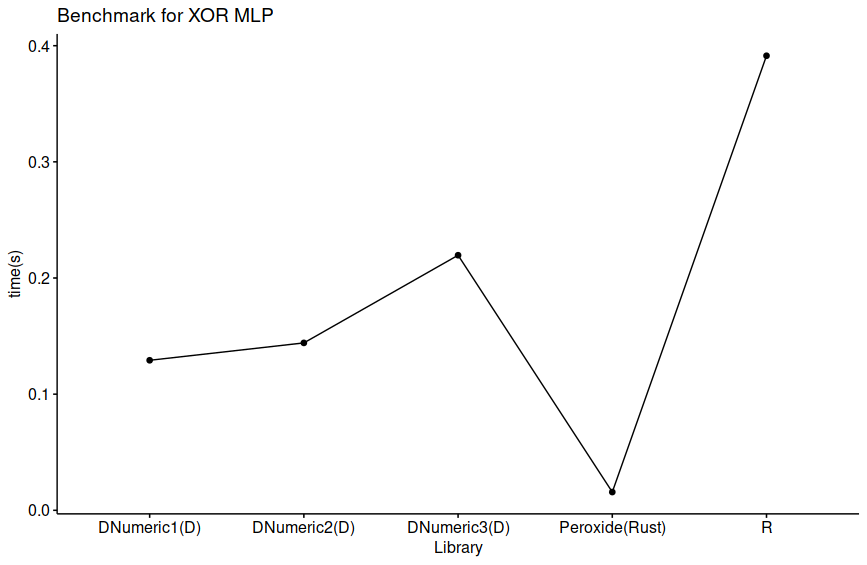
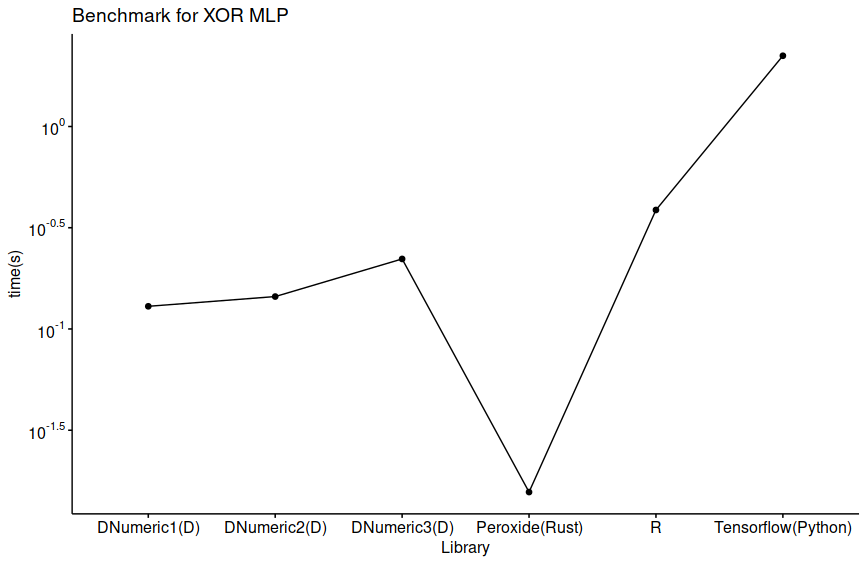
Bench with tf

diff --git a/Lecture/3rd/Code/hw_tensorflow/tf.py b/Lecture/3rd/Code/hw_tensorflow/tf.py
@@ -1,0 +1,86 @@
+#!/usr/bin/env python3
+
+# -*- coding: utf-8 -*-
+
+"""
+
+Created on Tue May 23 14:56:53 2017
+
+
+@author: crazyj
+
+"""
+
+
+
+import numpy as np
+
+import tensorflow as tf
+
+
+# trainint set
+
+X_train = np.array( [[0,0], [0,1], [1,0], [1,1]])
+
+T_train = np.array( [[0], [1], [1], [0]] )
+
+
+
+# placeholder
+
+X = tf.placeholder(tf.float32, [None, 2])
+
+T = tf.placeholder(tf.float32, [None, 1])
+
+
+# variable
+
+W1 = tf.Variable(tf.truncated_normal([2,4]))
+
+b1 = tf.Variable(tf.zeros([4]))
+
+W2 = tf.Variable(tf.truncated_normal([4,1]))
+
+b2 = tf.Variable(tf.zeros([1]), dtype=tf.float32)
+
+
+# model
+
+A1 = tf.matmul(X, W1)+b1
+
+Z1 = tf.sigmoid(A1)
+
+A2 = tf.matmul(Z1, W2)+b2
+
+Z2 = tf.sigmoid(A2)
+
+
+learn_rate = 0.25
+
+Cost = tf.reduce_mean(tf.reduce_sum(tf.square(Z2-T), 1))
+
+train = tf.train.GradientDescentOptimizer(learn_rate).minimize(Cost)
+
+
+predict = Z2
+
+
+sess = tf.Session()
+
+sess.run(tf.global_variables_initializer())
+
+for i in range(5000):
+
+    _train, _Cost = sess.run([train, Cost], feed_dict={X:X_train, T:T_train})
+
+    #print( "cost=", _Cost)
+
+    
+
+_predict = sess.run([predict], feed_dict={X:X_train})
+
+print("predict=", _predict)
+
+print("result=", np.array(np.array(_predict)>0.5, np.int))
+
+

diff --git a/Lecture/3rd/Code/bench.md b/Lecture/3rd/Code/bench.md
@@ -1,7 +1,8 @@
 | Command | Mean [ms] | Min…Max [ms] |
 |:---|---:|---:|
-| `./HW_reboot2/hw_reboot2` | 129.2 ± 2.6 | 123.9…132.7 |
-| `./HW_reboot/hw_reboot` | 144.1 ± 2.4 | 139.6…147.2 |
-| `./HW2/hw2` | 219.6 ± 3.4 | 215.7…224.6 |
-| `Rscript mlp.R` | 391.3 ± 4.2 | 384.9…397.6 |
-| `./hw_peroxide/target/release/hw_peroxide` | 15.7 ± 0.9 | 13.8…19.0 |
+| `./HW_reboot2/hw_reboot2` | 129.4 ± 2.7 | 124.9…135.4 |
+| `./HW_reboot/hw_reboot` | 144.6 ± 3.0 | 140.1…150.0 |
+| `./HW2/hw2` | 221.7 ± 4.0 | 215.3…226.9 |
+| `Rscript mlp.R` | 386.9 ± 2.5 | 382.8…390.2 |
+| `./hw_peroxide/target/release/hw_peroxide` | 15.7 ± 0.8 | 13.7…17.4 |
+| `python3 hw_tensorflow/tf.py` | 2235.0 ± 27.0 | 2205.0…2297.1 |
